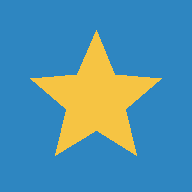
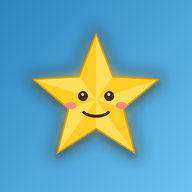
Add files via upload

diff --git a/index.html b/index.html
@@ -574,7 +574,7 @@ function renderHome(){
     return '<button class="profile" data-act="pick" data-id="'+k.id+'" style="--kid:'+k.color+';--kid-soft:color-mix(in srgb, '+k.color+' 18%, var(--surface));border-color:'+k.color+'"><span class="pm" aria-hidden="true">'+mascotOf(k,totalDone(p))+'</span><span class="pn">'+esc(k.name)+'</span><span class="ps">⭐ '+pts+' ימים השבוע</span></button>';}).join('');
   var rems=cfg.kids.map(function(k){var r=reminderFor(k);return r?{k:k,r:r}:null;}).filter(Boolean);
   var remHtml='';if(rems.length){var byT={};rems.forEach(function(x){(byT[x.r.text]=byT[x.r.text]||[]).push(x.k.name);});for(var t in byT)remHtml+='<div class="remind" role="status">'+t+' · '+byT[t].map(esc).join(', ')+'</div>';}
-  $app.innerHTML=headerBar('')+remHtml+'<h2>מי משתמש עכשיו?</h2><div class="profiles">'+cards+'</div><button class="parentlink" data-act="pick-parent">🔒 אזור הורים</button>';
+  $app.innerHTML=headerBar('')+remHtml+'<h2>מי משתמש עכשיו?</h2><div class="profiles">'+cards+'</div>'+(isInstalled()?'':'<button class="parentlink" data-act="pick-parent">🔒 אזור הורים</button>');
 }
 
 function renderPin(){
@@ -676,6 +676,8 @@ function tick(){if(!tm)return;var n=Date.now();if(tm.run){tm.left-=(n-tm.last)/1
     document.getElementById('tbtns').innerHTML='<button class="btn good" data-act="tdone">✓ סיימתי! לסמן</button><button class="btn" data-act="close">סגירה</button>';tt.textContent='נגמר!';}}
 function stopTimer(){if(tm){clearInterval(tm.iv);tm=null;}if(wake){try{wake.release();}catch(e){}wake=null;}}
 
+/* app instalado na tela inicial = sem acesso aos pais */
+function isInstalled(){try{return (window.matchMedia&&window.matchMedia('(display-mode: standalone)').matches)||window.navigator.standalone===true;}catch(e){return false;}}
 /* ---------- parent ---------- */
 function renderParent(){
   var tab=view.tab||'tasks';
@@ -762,7 +764,7 @@ document.addEventListener('click',function(ev){
   switch(a){
     case 'setup': saveCfg(buildDefault()); view={screen:'home'}; render(); break;
     case 'pick': view={screen:'pin',pinFor:id,pin:''}; render(); break;
-    case 'pick-parent': view={screen:'pin',pinFor:'parent',pin:''}; render(); break;
+    case 'pick-parent': if(isInstalled())break; view={screen:'pin',pinFor:'parent',pin:''}; render(); break;
     case 'key': onKey(b.dataset.k); break;
     case 'home': stopTimer(); view={screen:'home'}; render(); break;
     case 'tmv': mutateDay(function(l){var s=sortTasks(l),i=s.findIndex(function(x){return x.id===id;}),j=i+(+b.dataset.dir);if(i<0||j<0||j>=s.length||s[j].p!==s[i].p)return l;var a1=l.indexOf(s[i]),a2=l.indexOf(s[j]),tmp=l[a1];l[a1]=l[a2];l[a2]=tmp;return l;});render(); break;
